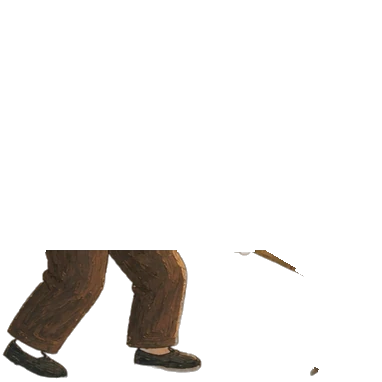
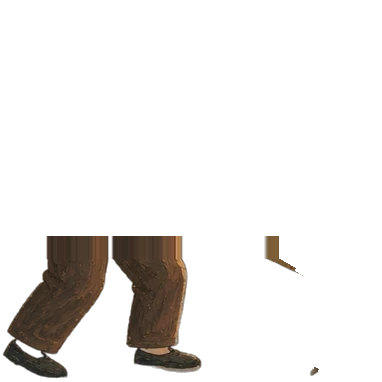
农夫锄地会沉腰、落地起土，闲下来直起腰看看远处
三件事，都在补「看不见关节」这一层：

下半身跟着腰压。腰弯到最深时 .lower 压 6%、支点在脚底，人是屈膝下去
而不是上半身插进裤子里。幅度小到几乎看不见，但它把「锄」和「弯」分开了。

锄刃入土那一下崩一小撮土。不按时间猜——缓动让「最深」那一格的墙钟时间
每次都不同，盯着腰的角度走到最深再放，位置才对得上；热点挂在臂上，
落地时读它的实时位置，比手算圆弧准。

待机每 7~13 秒直起腰站一秒半。这件事证明腰和肩是两级独立的关节：腰往上
抬的同时肩要反过来压一点，锄头才不跟着甩上天。起手必须卡在循环的静止段，
否则一暂停就卡在弯腰最低点，从那儿弹回 -2 度会抖一下。

顺手修了个一直藏着的问题：顺时针转（直腰）时，腰线抬起的那一侧会离开
下半身、露出背景，一条白横线。逆时针弯腰时缝在右腰、正好在身体边缘，
所以一直没发现。pipeline/waist.py 把腰线下方十几行实心衣料原样搬到上方。

腿没做成走路：正面视角的髋旋转只能「劈叉」，抬腿是透视缩短不是左右摆，
要侧面或 3/4 视角的素材才行。结论写进 README。

Changed region(s): [[0.1152, 0.6047, 0.4895, 0.6911], [0.6335, 0.6047, 0.7487, 0.6911]]

diff --git a/app/app.js b/app/app.js
@@ -621,6 +621,68 @@
   const busyActors = new WeakSet();
   const wait = ms => new Promise(r => setTimeout(r, ms));
 
+  // 锄了一阵，直起腰看看远处有没有兔子，再弯下去接着锄。
+  // 这件事本身没什么，但它说明腰和肩是两级独立的关节：腰往上抬的同时，
+  // 肩得反过来压一点，锄头才不会跟着甩到天上去。
+  async function straighten(el) {
+    const up = el.querySelector(".upper");
+    const arm = el.querySelector(".arm");
+    const low = el.querySelector(".lower");
+    if (!up || !arm || busyActors.has(el) || !document.contains(el)) return;
+    busyActors.add(el);
+    const idle = el._idle, idleArm = el._idleArm, idleLow = el._idleLow;
+    try {
+      if (idle) idle.pause();
+      if (idleArm) idleArm.pause();
+      if (idleLow) idleLow.pause();
+      const w0 = angleOf(up), a0 = angleOf(arm);
+      // 4.6 秒里：抬（0-38%）→ 站着（38-70%）→ 弯回去（100%）。
+      // 三个动画等长，才不会出现「腰已经直了、手臂还在半路」的半截姿态。
+      const opts = { duration: 4600, easing: "ease-in-out" };
+      await Promise.all([
+        up.animate([
+          { transform: "rotate(" + w0 + "deg)" },
+          { transform: "rotate(3.2deg)", offset: .38 },
+          { transform: "rotate(3.2deg)", offset: .70 },
+          { transform: "rotate(-2deg)" }
+        ], opts).finished.catch(() => {}),
+        arm.animate([
+          { transform: "rotate(" + a0 + "deg)" },
+          { transform: "rotate(" + Math.max(a0 - 4, 0) + "deg)", offset: .38 },
+          { transform: "rotate(" + Math.max(a0 - 4, 0) + "deg)", offset: .70 },
+          { transform: "rotate(0deg)" }
+        ], opts).finished.catch(() => {}),
+        low ? low.animate([
+          { transform: "scaleY(1)" },
+          { transform: "scaleY(1)" }
+        ], opts).finished.catch(() => {}) : Promise.resolve()
+      ]);
+    } finally {
+      // 停在 -2°，正是待机循环里那五分之一秒的静止姿态，接回去无缝。
+      if (idle) idle.play();
+      if (idleArm) idleArm.play();
+      if (idleLow) idleLow.play();
+      busyActors.delete(el);
+    }
+  }
+
+  // 直腰只在待机循环的「静止段」起手，否则一暂停就卡在弯腰的最低点，
+  // 再从那儿弹回 -2° 会抖一下。9 秒后先探，没到静止段就每 0.4 秒再看。
+  function scheduleStraighten(el, delay) {
+    clearTimeout(el._straightenTimer);
+    el._straightenTimer = setTimeout(async () => {
+      if (!document.contains(el)) return;
+      const idle = el._idle;
+      const t = idle ? idle.currentTime % 5600 : 0;
+      if (idle && !(t > 4880 && t < 5500) || busyActors.has(el)) {
+        scheduleStraighten(el, 400);
+        return;
+      }
+      await straighten(el);
+      scheduleStraighten(el, 7000 + Math.random() * 6000);
+    }, delay);
+  }
+
   function startIdle(el) {
     if (reduceMotion.matches) return;
     // 三段式角色：腰和肩两级关节。腰负责整个人的俯仰，肩负责甩臂。
@@ -628,16 +690,30 @@
     const up = el.querySelector(".upper");
     if (up) {
       const arm = el.querySelector(".arm");
+      const low = el.querySelector(".lower");
+      // 腰沉多少、腿就压多少：translateY 的 2% 正好对上 scaleY 掉的 6%
+      // （上身盒子高 382、下半身内容高 130，6% × 130 ≈ 2% × 382）。
+      // 腿不压，人弯下去就成了「上半身插进裤子里」。
       el._idle = up.animate([
-        { transform: "rotate(-2deg)" },
-        { transform: "rotate(-3.4deg)", offset: .30 },
-        { transform: "rotate(-6.6deg)", offset: .52, easing: "cubic-bezier(.45,0,.9,.35)" },
-        { transform: "rotate(-6.6deg)", offset: .60, easing: "cubic-bezier(.5,0,1,.4)" },
-        { transform: "rotate(-1.2deg)", offset: .70 },
-        { transform: "rotate(-2.4deg)", offset: .78 },
-        { transform: "rotate(-2deg)", offset: .88 },
-        { transform: "rotate(-2deg)" }
+        { transform: "translateY(0%) rotate(-2deg)" },
+        { transform: "translateY(0%) rotate(-3.4deg)", offset: .30 },
+        { transform: "translateY(2%) rotate(-6.6deg)", offset: .52, easing: "cubic-bezier(.45,0,.9,.35)" },
+        { transform: "translateY(2%) rotate(-6.6deg)", offset: .60, easing: "cubic-bezier(.5,0,1,.4)" },
+        { transform: "translateY(0%) rotate(-1.2deg)", offset: .70 },
+        { transform: "translateY(0%) rotate(-2.4deg)", offset: .78 },
+        { transform: "translateY(0%) rotate(-2deg)", offset: .88 },
+        { transform: "translateY(0%) rotate(-2deg)" }
       ], { duration: 5600, iterations: Infinity, easing: "ease-in-out" });
+      if (low) {
+        el._idleLow = low.animate([
+          { transform: "scaleY(1)" },
+          { transform: "scaleY(1)", offset: .30 },
+          { transform: "scaleY(.94)", offset: .52 },
+          { transform: "scaleY(.94)", offset: .60 },
+          { transform: "scaleY(1)", offset: .78 },
+          { transform: "scaleY(1)" }
+        ], { duration: 5600, iterations: Infinity, easing: "ease-in-out" });
+      }
       if (arm) {
         // 臂比腰早一点点起、晚一点点收，两级关节错开才有「甩」的感觉；
         // 完全同步就成了一根刚体。
@@ -652,6 +728,7 @@
           { transform: "rotate(0deg)" }
         ], { duration: 5600, iterations: Infinity, easing: "ease-in-out" });
       }
+      scheduleStraighten(el, 6000);
       return;
     }
     const body = el.querySelector(".body");
@@ -693,19 +770,67 @@
     const m = new DOMMatrix(getComputedStyle(el).transform);
     return Math.atan2(m.b, m.a) * 180 / Math.PI;
   };
+  // 同一个元素上还有 translateY / scaleY，点下去的那一刻得从「现在停在哪」
+  // 接上，否则会先弹回原位再演——待机动画暂停时正卡在弯腰的低点上。
+  const tyOf = el => new DOMMatrix(getComputedStyle(el).transform).f;
+  const syOf = el => new DOMMatrix(getComputedStyle(el).transform).d || 1;
+
+  // 锄刃入土的位置：热点是挂在臂上的，臂转到哪儿它就跟到哪儿，
+  // 所以落地那一刻读它的实时位置最准，不用手算圆弧。
+  function dust(actor) {
+    const layer = document.querySelector(".actors");
+    const spot = actor.querySelector('.spot[data-id="hoe"]');
+    if (!layer || !spot) return;
+    const b = spot.getBoundingClientRect(), h = layer.getBoundingClientRect();
+    if (!h.width) return;
+    const x = (b.left + b.width / 2 - h.left) / h.width * 100;
+    const y = (b.top + b.height * .78 - h.top) / h.height * 100;
+    for (let i = 0; i < 4; i++) {
+      const d = document.createElement("span");
+      d.className = "dust";
+      d.style.left = x + "%";
+      d.style.top = y + "%";
+      d.style.setProperty("--dx", ((i - 1.5) * 9 + (Math.random() - .5) * 5).toFixed(1) + "px");
+      d.style.animationDelay = (i * 26) + "ms";
+      d.style.width = (1.1 + Math.random() * .9).toFixed(2) + "%";
+      layer.appendChild(d);
+      d.addEventListener("animationend", () => d.remove());
+    }
+  }
+
+  // 盯着腰的角度，走到最深的那一格就崩一下土。
+  function impactAt(up, deepWaist, ms) {
+    const actor = up.closest(".actor");
+    const t0 = performance.now();
+    let fired = false;
+    const tick = () => {
+      if (fired) return;
+      if (Math.abs(angleOf(up) - deepWaist) < .8) {
+        fired = true;
+        dust(actor);
+        return;
+      }
+      if (performance.now() - t0 < ms * .8) requestAnimationFrame(tick);
+    };
+    requestAnimationFrame(tick);
+  }
 
   // 抬起来→停半拍→砸下去→直腰。腰和肩同时演，但肩的幅度更大一点，
-  // 这样锄头落点的那一下有「手腕甩出去」的重量感。
-  function swingOnce(up, arm, deepWaist, deepArm, ms) {
+  // 这样锄头落点的那一下有「手腕甩出去」的重量感。腿跟着沉：锄刃入土，
+  // 重心必须一起下去，否则只是上半身在鞠躬。
+  function swingOnce(up, arm, low, deepWaist, deepArm, ms) {
     const w0 = angleOf(up), a0 = arm ? angleOf(arm) : 0;
+    const h = up.getBoundingClientRect().height || 1;
+    const t0 = tyOf(up) / h * 100, tDeep = 2.4;
+    const s0 = low ? syOf(low) : 1;
     const w = up.animate([
-      { transform: "rotate(" + w0 + "deg)" },
-      { transform: "rotate(" + deepWaist + "deg)", offset: .44, easing: "cubic-bezier(.4,0,.7,.5)" },
-      { transform: "rotate(" + (deepWaist + .5) + "deg)", offset: .52, easing: "cubic-bezier(.55,0,1,.4)" },
-      { transform: "rotate(-1.4deg)", offset: .62 },
-      { transform: "rotate(-2.4deg)", offset: .74 },
-      { transform: "rotate(-2deg)", offset: .88 },
-      { transform: "rotate(-2deg)" }
+      { transform: "translateY(" + t0 + "%) rotate(" + w0 + "deg)" },
+      { transform: "translateY(" + tDeep + "%) rotate(" + deepWaist + "deg)", offset: .44, easing: "cubic-bezier(.4,0,.7,.5)" },
+      { transform: "translateY(" + tDeep + "%) rotate(" + (deepWaist + .5) + "deg)", offset: .52, easing: "cubic-bezier(.55,0,1,.4)" },
+      { transform: "translateY(" + t0 + "%) rotate(-1.4deg)", offset: .62 },
+      { transform: "translateY(" + t0 + "%) rotate(-2.4deg)", offset: .74 },
+      { transform: "translateY(" + t0 + "%) rotate(-2deg)", offset: .88 },
+      { transform: "translateY(" + t0 + "%) rotate(-2deg)" }
     ], { duration: ms, easing: "ease-in-out" });
     const a = arm ? arm.animate([
       { transform: "rotate(" + a0 + "deg)" },
@@ -716,16 +841,28 @@
       { transform: "rotate(0deg)", offset: .88 },
       { transform: "rotate(0deg)" }
     ], { duration: ms, easing: "ease-in-out" }) : null;
+    const l = low ? low.animate([
+      { transform: "scaleY(" + s0 + ")" },
+      { transform: "scaleY(.93)", offset: .44, easing: "cubic-bezier(.4,0,.7,.5)" },
+      { transform: "scaleY(.93)", offset: .52 },
+      { transform: "scaleY(" + s0 + ")", offset: .64 },
+      { transform: "scaleY(" + s0 + ")" }
+    ], { duration: ms, easing: "ease-in-out" }) : null;
+    // 入土那一刻起尘。不按时间猜——缓动曲线让「最深」那一格的墙钟时间
+    // 每次都不太一样，盯着腰的角度走到最深再放，位置才对得上。
+    const actor = up.closest(".actor");
+    if (actor) impactAt(up, deepWaist, ms);
     return Promise.all([
       w.finished.catch(() => {}),
-      a ? a.finished.catch(() => {}) : Promise.resolve()
+      a ? a.finished.catch(() => {}) : Promise.resolve(),
+      l ? l.finished.catch(() => {}) : Promise.resolve()
     ]);
   }
 
   // 连着锄两下：第一下重，第二下轻，抬起来的时候正好开口说话
-  async function hoeTwice(up, arm) {
-    await swingOnce(up, arm, -7.4, -12.4, 780);
-    await swingOnce(up, arm, -6.6, -10.2, 640);
+  async function hoeTwice(up, arm, low) {
+    await swingOnce(up, arm, low, -7.4, -12.4, 780);
+    await swingOnce(up, arm, low, -6.6, -10.2, 640);
   }
 
   async function tapActor(hs, el) {
@@ -747,14 +884,17 @@
     busyActors.add(el);
     const up = el.querySelector(".upper");
     const arm = el.querySelector(".arm");
+    const low = el.querySelector(".lower");
     const body = el.querySelector(".body");
     const idle = el._idle;
     const idleArm = el._idleArm;
+    const idleLow = el._idleLow;
     try {
       if (idle) idle.pause();
       if (idleArm) idleArm.pause();
+      if (idleLow) idleLow.pause();
       // 锄头落进土里那一刻开口，别等整套动作演完——点了半天没反应最劝退
-      const act = up ? hoeTwice(up, arm) : null;
+      const act = up ? hoeTwice(up, arm, low) : null;
       if (act) await wait(520);
       else await chop(body, 620).finished.catch(() => {});
       const ms = showBubble(hs, el);
@@ -766,6 +906,7 @@
     } finally {
       if (idle) idle.play();
       if (idleArm) idleArm.play();
+      if (idleLow) idleLow.play();
       busyActors.delete(el);
     }
   }

diff --git a/app/app.css b/app/app.css
@@ -200,7 +200,9 @@ button{font-family:inherit}
 .actor .skin{position:relative;z-index:1}
 /* 拆成两段的角色：下半身撑起高度，上半身绝对定位叠在上面，绕腰转。
    光晕挂在整组上，两层合成后统一描边，接缝处不会各自发亮。 */
-.actor.rig .lower{position:relative;display:block;width:100%}
+/* 支点在脚底：下半身压缩时脚不离地，看起来是屈膝下蹲而不是整个人陷进土里。 */
+.actor.rig .lower{position:relative;display:block;width:100%;transform-origin:50% 100%;
+  will-change:transform}
 .actor.rig .upper{position:absolute;left:0;top:0;width:100%;height:auto;aspect-ratio:1;
   display:block;transform:rotate(-2deg);will-change:transform}
 .actor.rig .upper img{position:absolute;inset:0;width:100%;height:auto}
@@ -228,6 +230,23 @@ button{font-family:inherit}
     drop-shadow(0 6px 12px rgba(70,55,35,.18))}
 }
 .actor.press .skin{transform:translateY(1px)}
+
+/* 锄刃入土那一下崩起来的一小撮土。没有它，锄头就是「摆」到地上，
+   而不是「砸」进地里——重量感全在这一点碎屑上。 */
+.dust{
+  position:absolute;width:1.7%;min-width:4px;aspect-ratio:1;border-radius:50%;
+  background:rgba(212,180,132,.72);box-shadow:0 0 3px rgba(214,182,134,.55);
+  pointer-events:none;z-index:2;transform:translate(-50%,-50%);
+  animation:dustUp .66s cubic-bezier(.15,.65,.4,1) forwards;
+}
+@keyframes dustUp{
+  0%{opacity:.9;transform:translate(-50%,-50%) scale(.5)}
+  30%{opacity:.8}
+  100%{opacity:0;transform:translate(calc(-50% + var(--dx,0px)),calc(-50% - 15px)) scale(1.7)}
+}
+@media (prefers-reduced-motion: reduce){
+  .dust{animation-duration:.32s}
+}
 
 .spot{
   position:absolute;display:block;padding:0;border:none;background:transparent;border-radius:20px;

diff --git a/pipeline/waist.py b/pipeline/waist.py
@@ -1,0 +1,41 @@
+"""给下半身素材补一截「衣摆」，堵住腰线旋转时露出来的那条白缝。
+
+上半身绕腰点转的时候，腰线抬起的那一侧会离开下半身，露出的正好是背景
+（下半身从 y≈252 才开始有像素）。逆时针转（弯腰）时这条缝在右腰，那里
+本来就在画面边缘；顺时针转（直腰）时缝在左腰，白花花一条横线。
+
+补法：把腰线下方十几行实心衣料原样往上搬，铺满 236..252。这段静止时被
+上衣盖住，只有转起来才露一条边。
+
+    python pipeline/waist.py
+"""
+from __future__ import annotations
+
+import sys
+from pathlib import Path
+
+import numpy as np
+from PIL import Image
+
+sys.path.insert(0, str(Path(__file__).resolve().parent))
+import common
+
+ACTORS = common.APP / "assets" / "actors"
+NAME = "L03_farmer_lo.webp"
+# 取样行：腰线下方、还在整片衣料上的那一行。
+SAMPLE_ROW = 258
+# 往上补到哪儿。+4° 时左腰抬 10px 左右，留到 236 有余量。
+FILL_TOP = 236
+
+
+def main():
+    p = ACTORS / NAME
+    img = np.array(Image.open(p).convert("RGBA")).astype(np.float32)
+    row = img[SAMPLE_ROW:SAMPLE_ROW + 1].copy()
+    img[FILL_TOP:SAMPLE_ROW] = row
+    Image.fromarray(np.clip(img, 0, 255).astype(np.uint8)).save(p, lossless=True)
+    print("补边", NAME, FILL_TOP, "→", SAMPLE_ROW)
+
+
+if __name__ == "__main__":
+    main()

diff --git a/README.md b/README.md
@@ -516,7 +516,7 @@ echo "$IP ai-corpus-backup-1258344699.cos.ap-beijing.myqcloud.com" >> ~/.user_ho
 
 ```
 .actor.rig
-  .lower       腰以下，不动（脚必须踩在地上）
+  .lower       腰以下；支点在脚底，腰沉多少它就压多少
   .upper       腰以上，绕 waist 点转            ← 一级：俯仰
     img.torso    躯干（含头）
     .arm        袖子 + 手 + 锄头，绕 shoulder 点转 ← 二级：甩臂
@@ -543,6 +543,29 @@ echo "$IP ai-corpus-backup-1258344699.cos.ap-beijing.myqcloud.com" >> ~/.user_ho
 **一个坑**：`transform-origin` 用的是包含块的百分比，而 `.upper`/`.arm` 是 `<span>`，
 行高会把高度算成 155 而不是 150，原点就偏 3 px——渲染出来是刃和柄脱开一小截。
 给它们加 `aspect-ratio:1` 锁死正方形才对得上。
+
+**顺时针转会露白**：腰线抬起的那一侧会离开下半身，露出背景，一条白横线。
+逆时针（弯腰）时缝在右腰，那里本来就在身体边缘，看不出来；一加上「直腰」就藏不住了。
+`pipeline/waist.py` 把腰线下方十几行实心衣料原样搬到上方，静止时被上衣盖住，
+只有转起来才露一条边。
+
+### 腿：能沉，不能走
+
+正面的贴图做不了走路。腿绕髋转，两条腿只会「劈叉」——正面视角里抬腿其实是
+透视缩短，不是左右摆；想做出迈步，得有侧面或 3/4 视角的素材，那是重画，不是代码。
+
+所以腿只承担一件事：**跟着腰沉**。腰弯到最深时下半身压 6%、支点在脚底，
+人看起来是屈膝下去，而不是上半身插进裤子里。幅度小到几乎看不见，
+但它把「锄」和「弯」分开了——锄刃入土，重心必须一起下去。
+
+### 会自己直腰
+
+待机每 7~13 秒，农夫会直起腰看看远处，站一秒半，再弯回去。这件事本身很小，
+但它说明腰和肩是两级**独立**的关节：腰往上抬的同时，肩要反过来压一点，
+锄头才不会跟着甩上天。
+
+起手时机得卡在待机循环的静止段（最后那五分之一秒），否则一暂停就卡在弯腰最低点，
+从那儿弹回 -2° 会抖一下。
 
 ### 3. 只存事件，不存聚合
 
